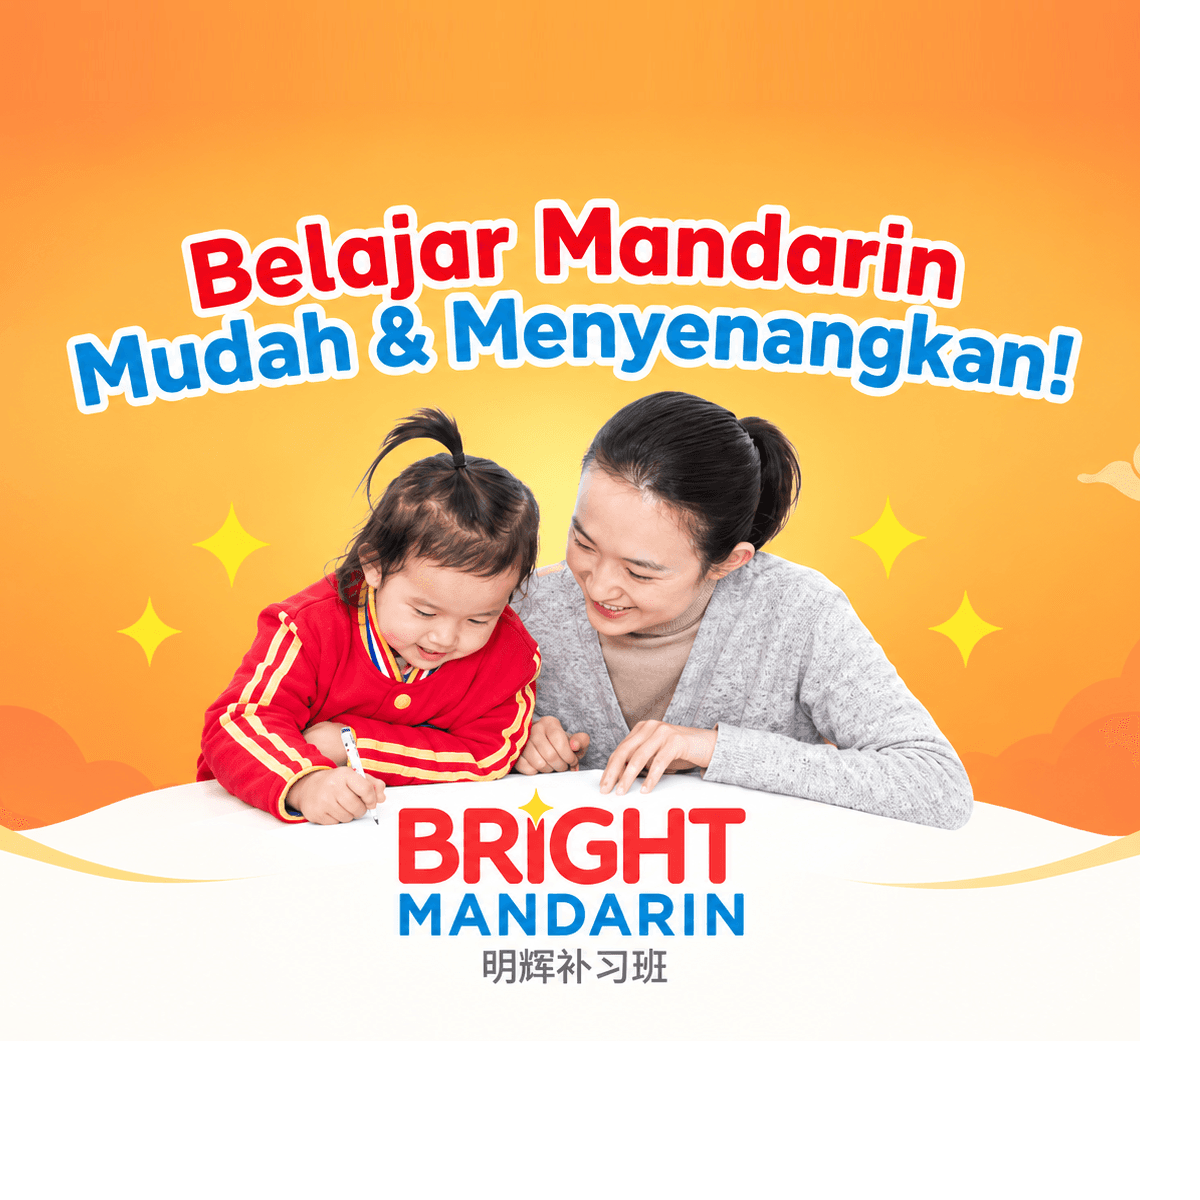
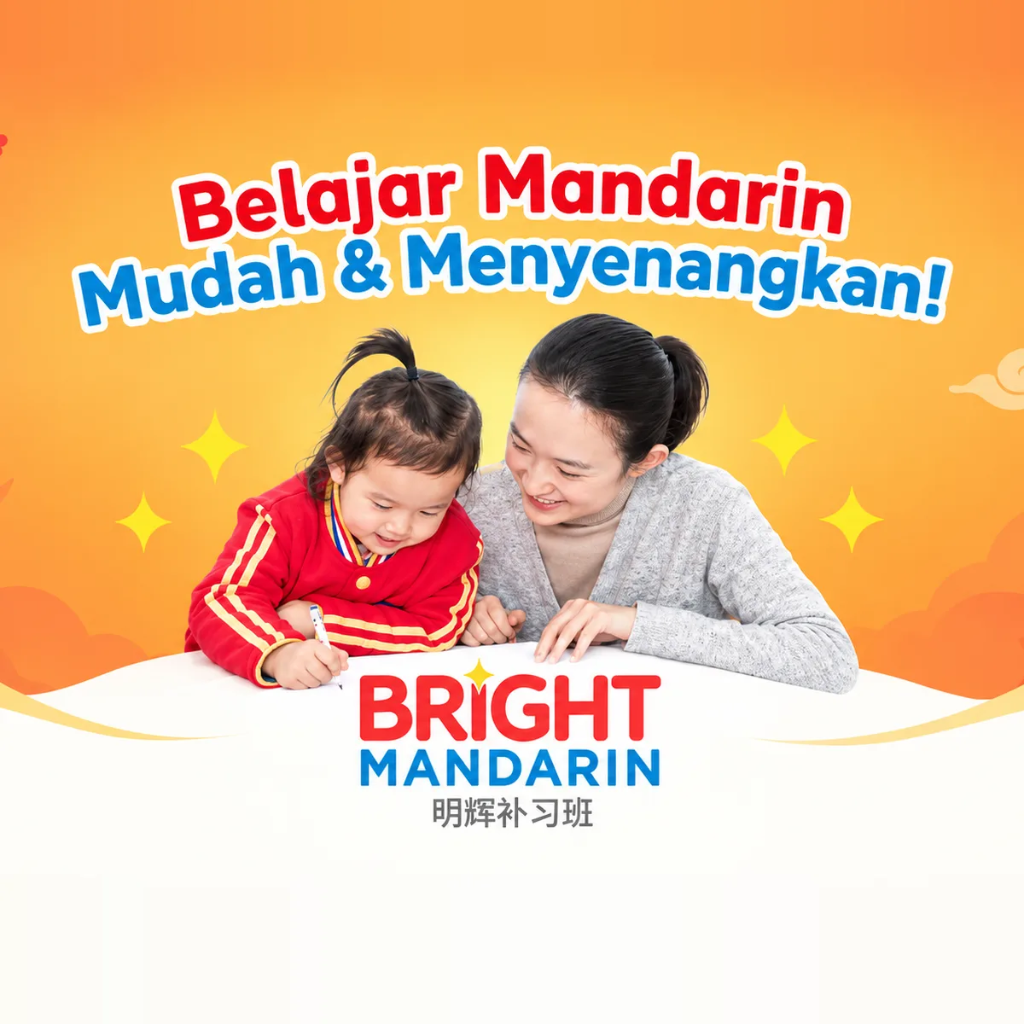
fix(seo): perbaiki rasio gambar thumbnail pencarian Google dengan rasio kotak 1:1 dan tambahkan varian 4:3

diff --git a/app/layout.tsx b/app/layout.tsx
@@ -74,22 +74,29 @@ export const metadata: Metadata = {
     images: [
       {
         url: '/hero-banner-square.png',
-        width: 1200,
-        height: 1200,
+        width: 1024,
+        height: 1024,
+        alt: 'Belajar Mandarin Mudah & Menyenangkan di Bright Mandarin Kelapa Gading',
+        type: 'image/png',
+      },
+      {
+        url: '/hero-banner-4x3.png',
+        width: 1024,
+        height: 768,
         alt: 'Belajar Mandarin Mudah & Menyenangkan di Bright Mandarin Kelapa Gading',
         type: 'image/png',
       },
       {
         url: '/hero-banner.png',
-        width: 1200,
-        height: 630,
+        width: 1672,
+        height: 941,
         alt: 'Belajar Mandarin Mudah & Menyenangkan di Bright Mandarin Kelapa Gading',
         type: 'image/png',
       },
       {
         url: '/logo-official.png',
-        width: 800,
-        height: 800,
+        width: 512,
+        height: 512,
         alt: 'Bright Mandarin Education Kelapa Gading',
         type: 'image/png',
       },
@@ -103,8 +110,8 @@ export const metadata: Metadata = {
   },
   other: {
     thumbnail: 'https://www.brightmandarin.courses/hero-banner-square.png',
-    'image:width': '1200',
-    'image:height': '1200',
+    'image:width': '1024',
+    'image:height': '1024',
   },
   robots: {
     index: true,
@@ -161,8 +168,8 @@ export default async function RootLayout({
           '@id': 'https://www.brightmandarin.courses/#primaryimage',
           url: 'https://www.brightmandarin.courses/hero-banner-square.png',
           contentUrl: 'https://www.brightmandarin.courses/hero-banner-square.png',
-          width: '1200',
-          height: '1200',
+          width: '1024',
+          height: '1024',
           caption: 'Belajar Mandarin Mudah & Menyenangkan di Bright Mandarin Kelapa Gading',
         },
       },
@@ -175,6 +182,7 @@ export default async function RootLayout({
         logo: 'https://www.brightmandarin.courses/logo-official.png',
         image: [
           'https://www.brightmandarin.courses/hero-banner-square.png',
+          'https://www.brightmandarin.courses/hero-banner-4x3.png',
           'https://www.brightmandarin.courses/hero-banner.png',
           'https://www.brightmandarin.courses/logo-official.png',
         ],
